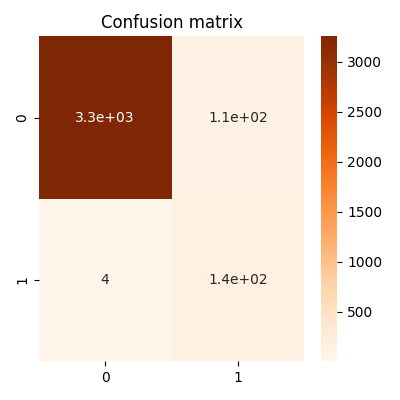
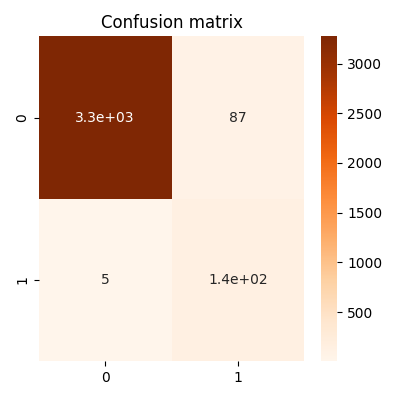
tmp model with crappy multiclass

diff --git a/nlp_model.py b/nlp_model.py
@@ -66,23 +66,29 @@ def make_bar_chart(x, y, title, plot_name):
     plt.savefig(plot_name)
 
 make_bar_chart(names_columns[2:6],average_labels[:4],'Average label values per research area','research_areas.png')
-make_bar_chart(names_columns[6:],average_labels[4:],'Average label values per research topic','topics.png')
+# These won't be used 
+# make_bar_chart(names_columns[6:],average_labels[4:],'Average label values per research topic','topics.png')
+
+train_df['target'] = train_df.apply(lambda x: 0 if x['Computer Science'] == 1 else 1  if x['Physics'] == 1 else 2  if x['Mathematics'] == 1 else 3, axis = 1)
+test_df['target'] = train_df.apply(lambda x: 0 if x['Computer Science'] == 1 else 1  if x['Physics'] == 1 else 2  if x['Mathematics'] == 1 else 3, axis = 1) 
+
+print(train_df.head())
 
 # From what we can see, there are no Nans in the dataset, but we have an unbalanced dataset.
 # The category 'Computer Science' has the largest average, of about 0.4, the lowest average is about 2 times lower (Mathematics). Overall we can't expect the classes to be balanced 
 
-# Train the model
-# Here I will train a model using the abstracts and the basic classification given by names_columns[2:6]
 
-# I want to check how well the model does in predicting the label 'Astrophysics of Galaxies' so I need to use part of the training dataset to be able to access the relevant topic label.
-# The topic labels are not avaiable in the given Train.csv file. 
-# X_train, X_test, y_train, y_test = train_test_split(train_df[['ABSTRACT','Computer Science', 'Physics', 'Mathematics', 'Statistics']],
-X_train, X_test, y_train, y_test = train_test_split(train_df[['ABSTRACT','Computer Science', 'Physics', 'Mathematics', 'Statistics']], 
-                                                    train_df['Astrophysics of Galaxies'], 
+# Train the model
+X_train, X_test, y_train, y_test = train_test_split(train_df['ABSTRACT'], 
+#                                                   train_df[['Computer Science', 'Physics', 'Mathematics', 'Statistics']],
+                                                    train_df['Computer Science'], 
                                                     random_state=0)
 
-print('inspecting types from train_test_split')
-print(type(X_train))
+X_train = train_df['ABSTRACT']
+y_train = train_df['target']
+
+X_test = test_df['ABSTRACT']
+y_test = test_df['target']
 
 # Here adding the other remaining features available at training and testing time which represent a basic classification of the abstracts (names_columns[2:6])
 def add_feature(X, feature_to_add):
@@ -96,43 +102,60 @@ def add_feature(X, feature_to_add):
 vectorizer = TfidfVectorizer()
 
 # Incrementally add the columns to the sparse feature matrix for both training and testing set. 
-X_vectorised = vectorizer.fit_transform(X_train['ABSTRACT'])
-X_vec_1 = add_feature(X_vectorised, X_train['Computer Science'])
-X_vec_2 = add_feature(X_vec_1, X_train['Mathematics'])
-X_vec_3 = add_feature(X_vec_2, X_train['Physics'])
-X_vec_fin = add_feature(X_vec_3, X_train['Statistics'])
+X_vectorised = vectorizer.fit_transform(X_train)
+#X_vec_1 = add_feature(X_vectorised, X_train['Computer Science'])
+#X_vec_2 = add_feature(X_vec_1, X_train['Mathematics'])
+#X_vec_3 = add_feature(X_vec_2, X_train['Physics'])
+#X_vec_fin = add_feature(X_vec_3, X_train['Statistics'])
 #
-X_test_vectorised = vectorizer.transform(X_test['ABSTRACT'])
-X_test_vec_1 = add_feature(X_test_vectorised, X_test['Computer Science'])
-X_test_vec_2 = add_feature(X_test_vec_1, X_test['Mathematics'])
-X_test_vec_3 = add_feature(X_test_vec_2, X_test['Physics'])
-X_test_vec_fin = add_feature(X_test_vec_3, X_test['Statistics'])
+X_test_vectorised = vectorizer.transform(X_test)
+#X_test_vec_1 = add_feature(X_test_vectorised, X_test['Computer Science'])
+#X_test_vec_2 = add_feature(X_test_vec_1, X_test['Mathematics'])
+#X_test_vec_3 = add_feature(X_test_vec_2, X_test['Physics'])
+#X_test_vec_fin = add_feature(X_test_vec_3, X_test['Statistics'])
 
 
 # Ameba 
 #cls = MultinomialNB(alpha=0.1)
 
 # Define a model with balanced classes and perform a basic HP scan. Can be made more complicated as needed. 
-cls = LogisticRegression(random_state=0, class_weight='balanced')
+cls = LogisticRegression(random_state=0, class_weight='balanced', multi_class='ovr')
+
 parameters = {'C': [0.5,1,1.5]}
 clf = GridSearchCV(cls, param_grid=parameters, scoring='roc_auc')  
-clf.fit(X_vec_fin, y_train)
-y_predict = clf.best_estimator_.predict(X_test_vec_fin)
+cls.fit(X_vectorised, y_train)
+# y_predict = clf.best_estimator_.predict(X_test_vectorised)
+#y_predict = cls.predict_proba(X_test_vectorised)
+y_predict = cls.predict(X_test_vectorised)
+
+y_predict_mod = np.array([1 if x == 0 else 0 for x in y_predict ])
+y_test_mod = np.array([1 if x == 0 else 0 for x in y_test ])
+
+print(type(y_predict))
+print(type(y_predict_mod))
+
+print(y_predict)
+print(y_predict_mod)
+
 
 # Evaluate a number of possible metrics 
-roc_auc = roc_auc_score(y_test, y_predict)
-recall = recall_score(y_test, y_predict)
-precision = precision_score(y_test, y_predict)
-accuracy = accuracy_score(y_test, y_predict)
+roc_auc = roc_auc_score(y_test_mod, y_predict_mod, multi_class='ovr')
+print(roc_auc)
+#recall = recall_score(y_test, y_predict)
+#precision = precision_score(y_test, y_predict)
+#accuracy = accuracy_score(y_test, y_predict)
+print('Printing prediction')
+print(y_predict_mod)
+print(y_test_mod)
 confusion_matrix = confusion_matrix(y_test,y_predict)
 
-print('Final metrics roc_auc = %f, recall = %f, precision = %f, accuracy =%f'%(roc_auc,recall,precision,accuracy))
+#print('Final metrics roc_auc = %f, recall = %f, precision = %f, accuracy =%f'%(roc_auc,recall,precision,accuracy))
 print('Confusion matrix')
 print(confusion_matrix)
 
-import seaborn as sn
-fig = plt.figure(figsize = (4, 4))
-plt.title('Confusion matrix')
-ax = sn.heatmap(confusion_matrix, cmap='Oranges', annot=True)
-plt.tight_layout()
-plt.savefig('heatmap.png')
+#import seaborn as sn
+#fig = plt.figure(figsize = (4, 4))
+#plt.title('Confusion matrix')
+#ax = sn.heatmap(confusion_matrix, cmap='Oranges', annot=True)
+#plt.tight_layout()
+#plt.savefig('heatmap.png')
